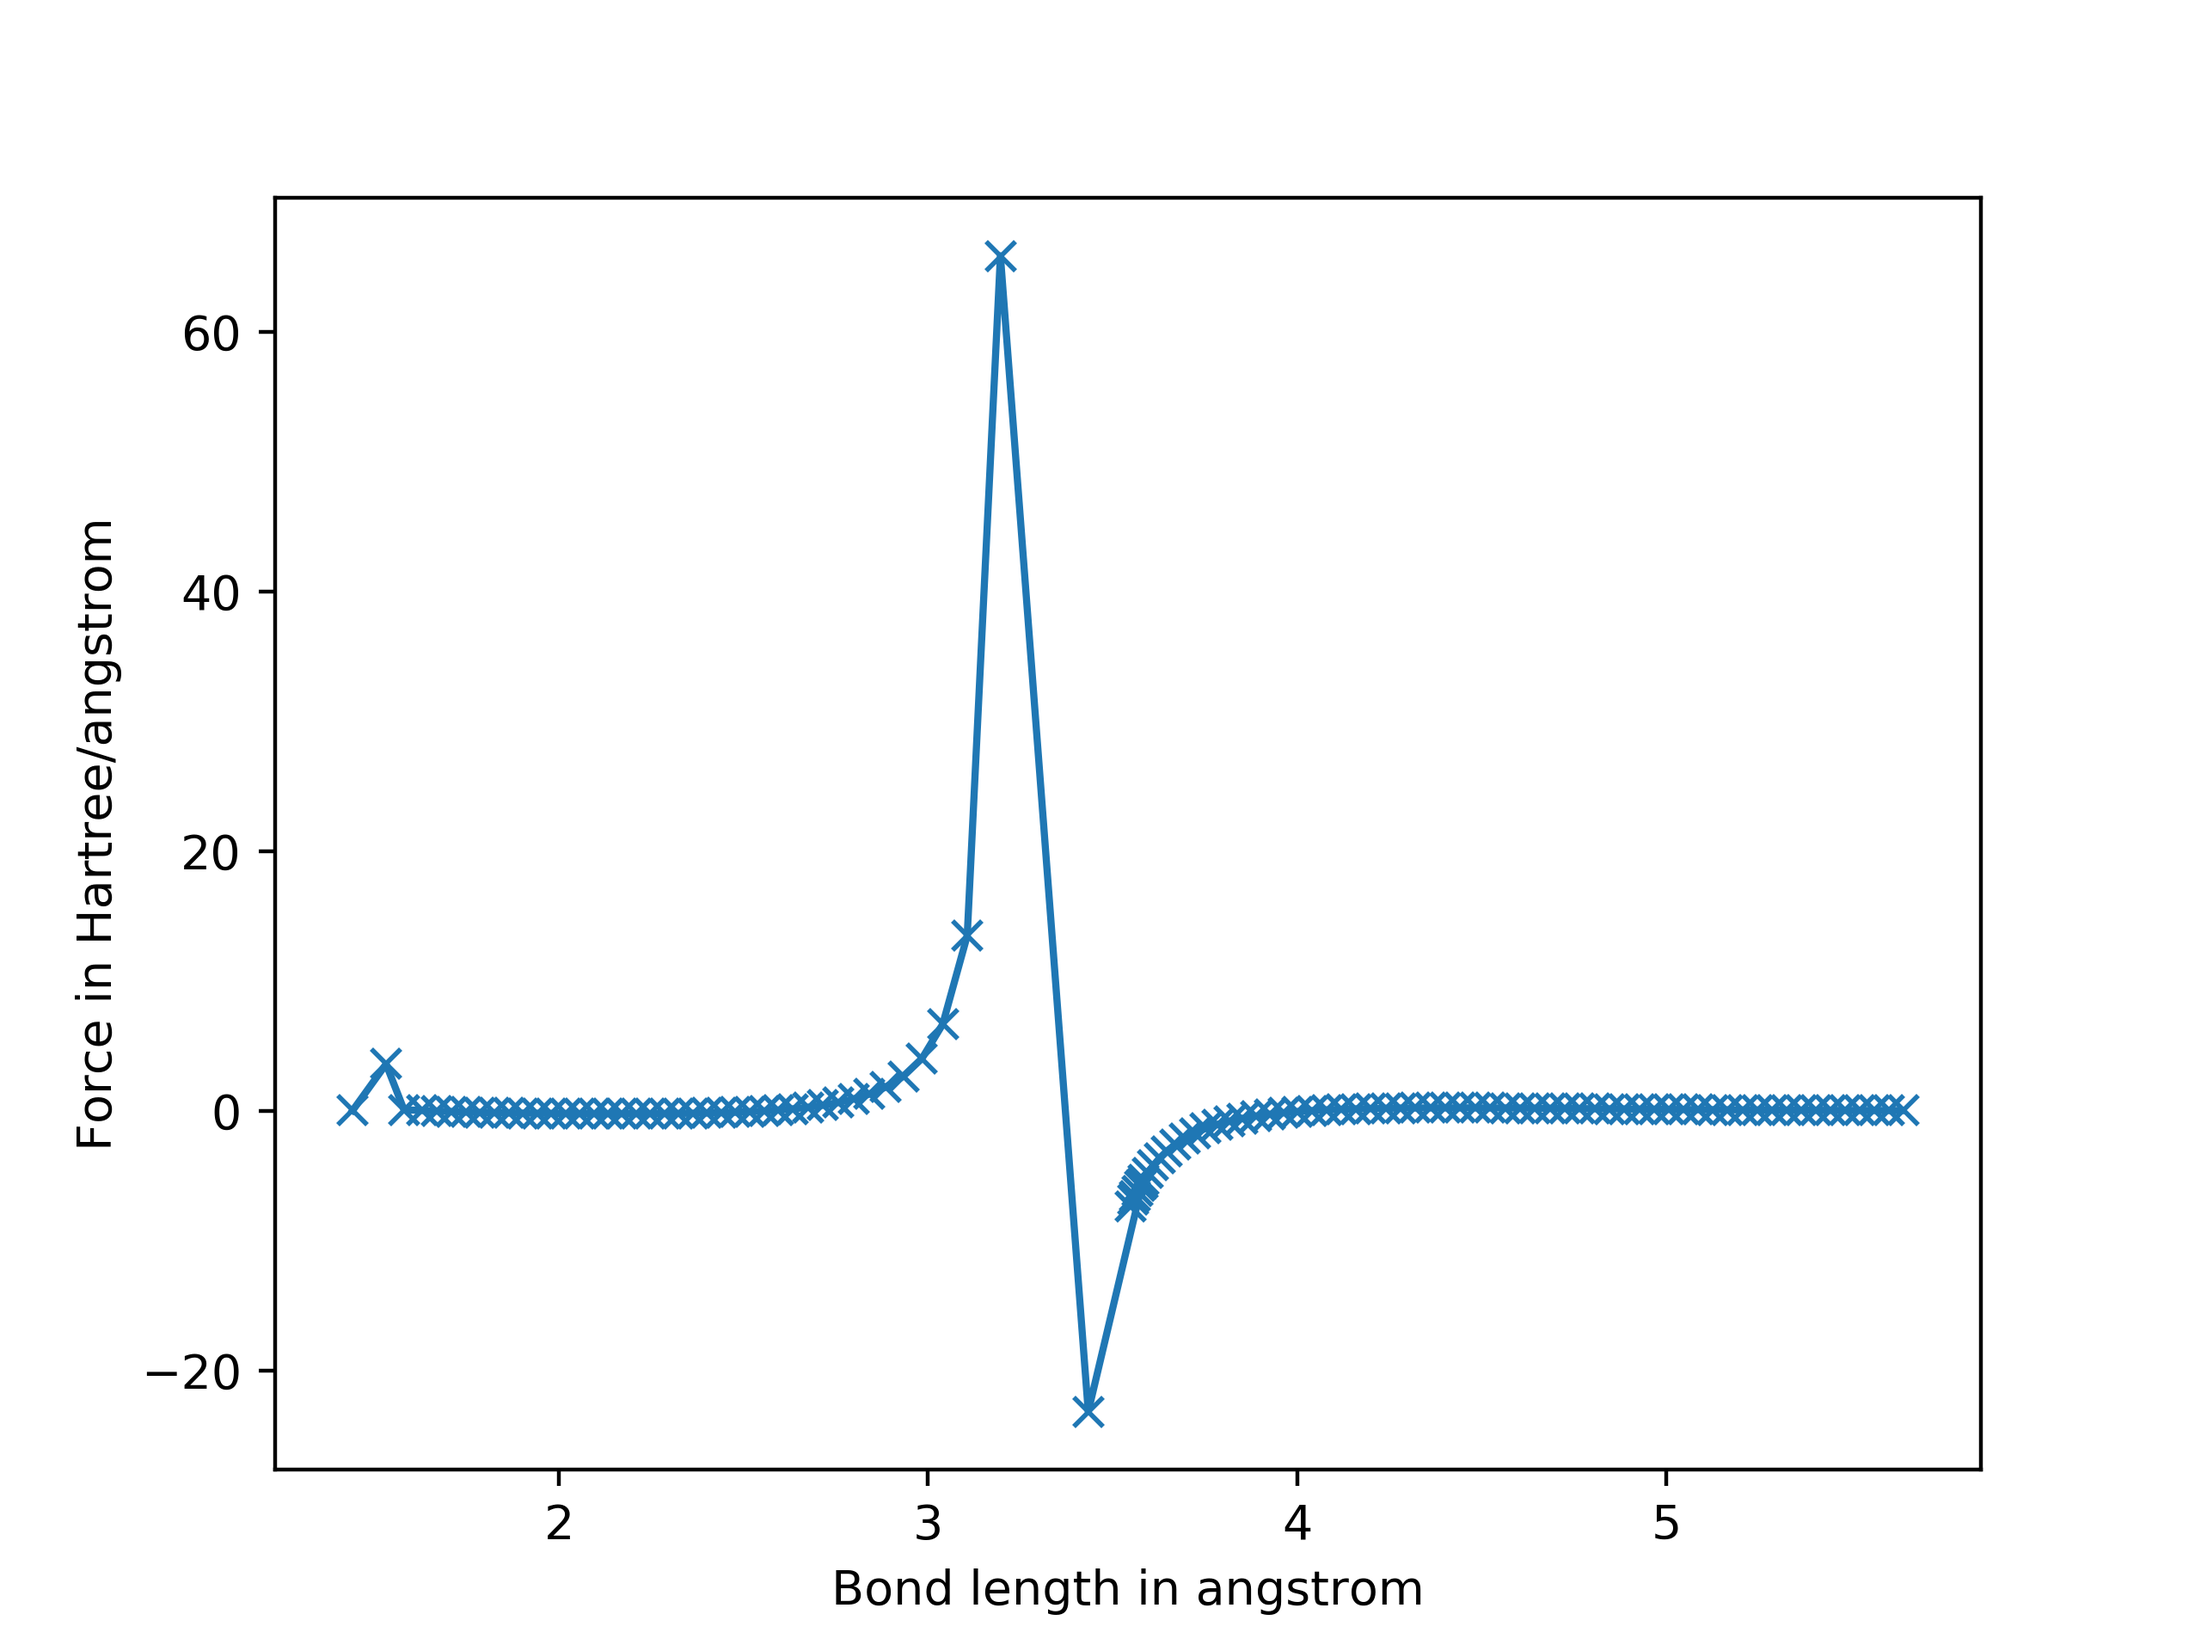
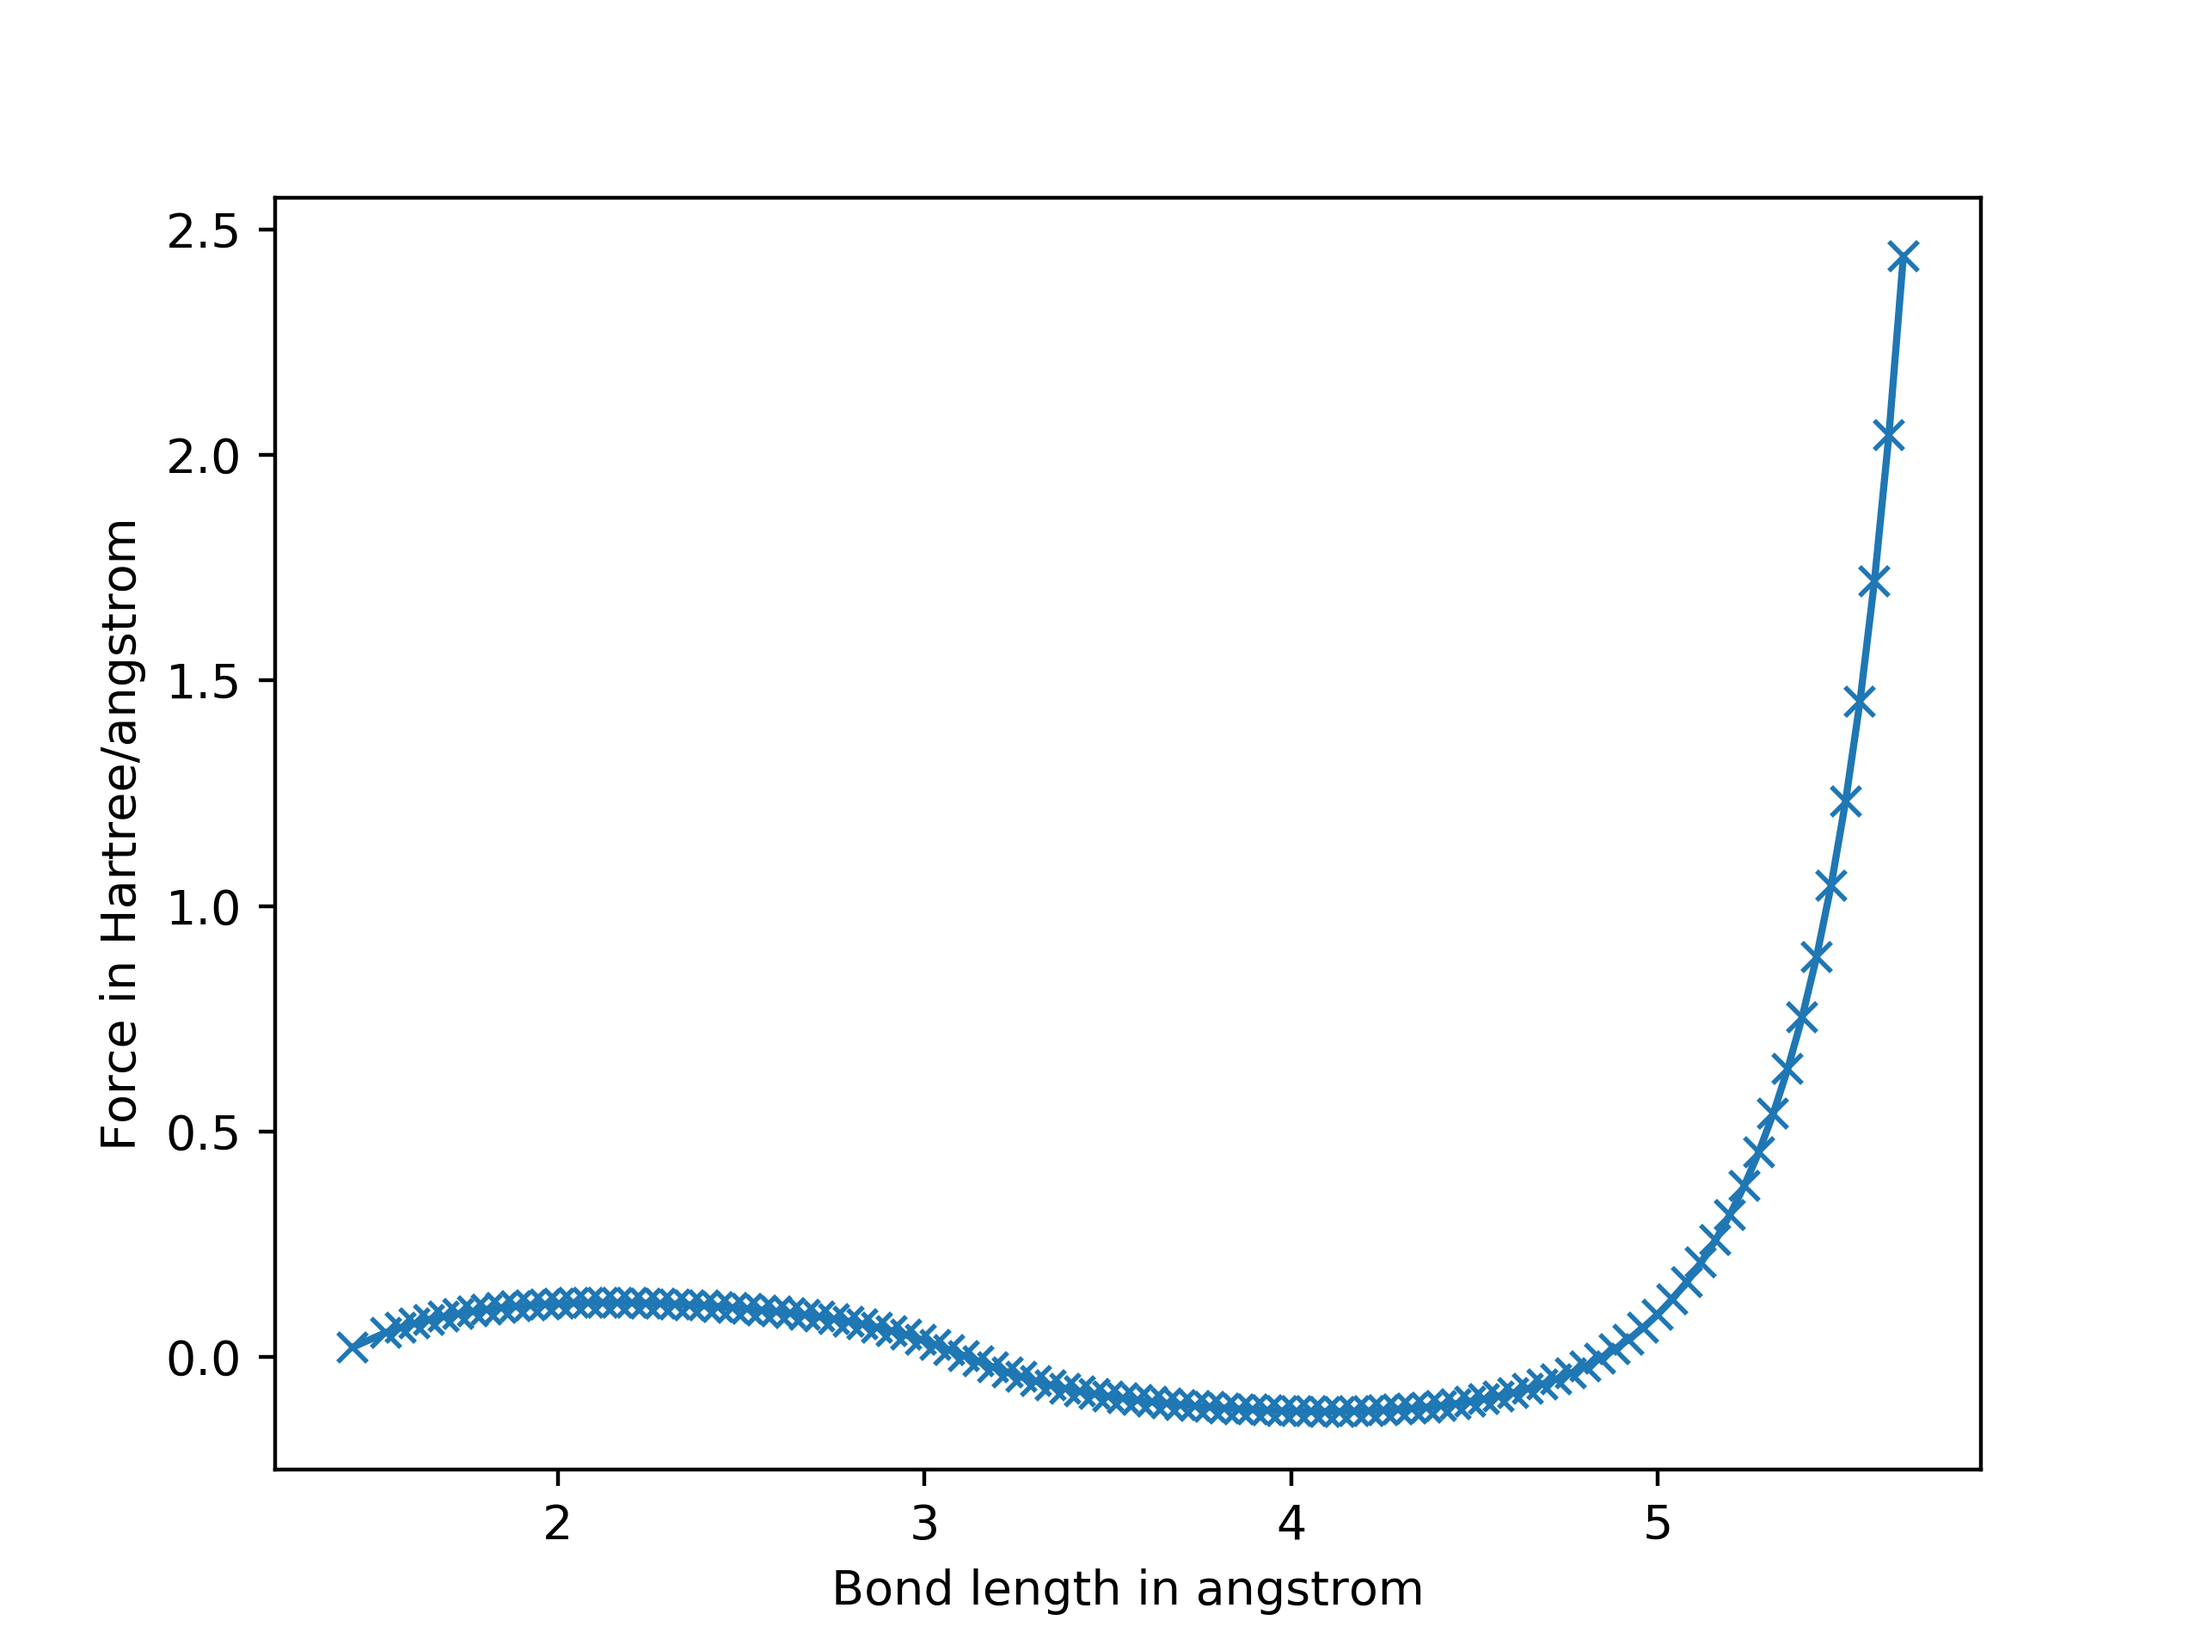
successful fci propogation

diff --git a/ProjectQ/force_propogation.py b/ProjectQ/force_propogation.py
@@ -37,9 +37,6 @@ def energy_objective(packed_amplitudes):
     evolution_operator | wavefunction
     compiler_engine.flush()
 
-    print(type(qubit_hamiltonian))
-    print(type(wavefunction))
-
     # Evaluate the energy and reset wavefunction
     energy = compiler_engine.backend.get_expectation_value(qubit_hamiltonian, wavefunction)
     All(Measure) | wavefunction
@@ -72,7 +69,7 @@ fci_energies = [-1.603565128035238, -1.6004199263636436]
 UCCSD_energies = [-1.5836999664044602, -1.5771459927119653]
 
 # Initial force as calculated by fci in hartree / angstroms
-velocity = 0.00124594
+velocity = 0.394
 mass = 1836
 time = .1
 distance_counter = 1.51178
@@ -88,21 +85,20 @@ while (distance_counter < 5.7):
     bond_lengths += [distance_counter]
 
     # Compute distance after force propogation
+    distance_counter += time*velocity + 0.5 * (time**2) * force_list[-1]/mass
     velocity += time/mass * 0.5 * (force_list[-1] + force_list[-2])
-    distance_counter += time*velocity + 0.5 * (time**2) * force_list[-1]
-
 
     # acceleration_list += [acceleration_list[-1] + force/mass * 0.529117]
     # acceleration = acceleration_list[-1]
     #
     # distance_counter += acceleration*1/2*(time**2) + initial_velocity*time
 
-    print("""\nThis is function_run #{} for distance: {} and force: {} and
+    print("""\nThis is function_run #{} for distance: {} bohrs and force: {} and
               velocity: {}"""
               .format(counter, distance_counter, force_list[-1], velocity))
 
-    # Begin Running Simulation
-    geometry = [('H', (0., 0., 0.)), ('H', (0., 0., distance_counter)),
+    # Begin Running Simulation, Convert distance_counter to angstroms
+    geometry = [('H', (0., 0., 0.)), ('H', (0., 0., distance_counter * 0.529177249)),
                 ('H', (0., 0., 3.3))]
 
     # Generate and populate instance of MolecularData.
@@ -156,10 +152,14 @@ adjusted_lengths = [a+1/2*(b - a) for a, b in zip(bond_lengths, bond_lengths[1:]
 
 print("These are the adjusted lengths:", adjusted_lengths)
 
+
+
+
+
 f1 = plt.figure(0)
 plt.plot(adjusted_lengths, force_list, 'x-')
-plt.ylabel('Force in Hartree/angstrom')
-plt.xlabel('Bond length in angstrom')
+plt.ylabel('Force in Hartree/bohrs')
+plt.xlabel('Bond length in bohrs')
 
 plt.savefig("Force-Propogation-h3-graph", dpi=400, orientation='portrait')
 
